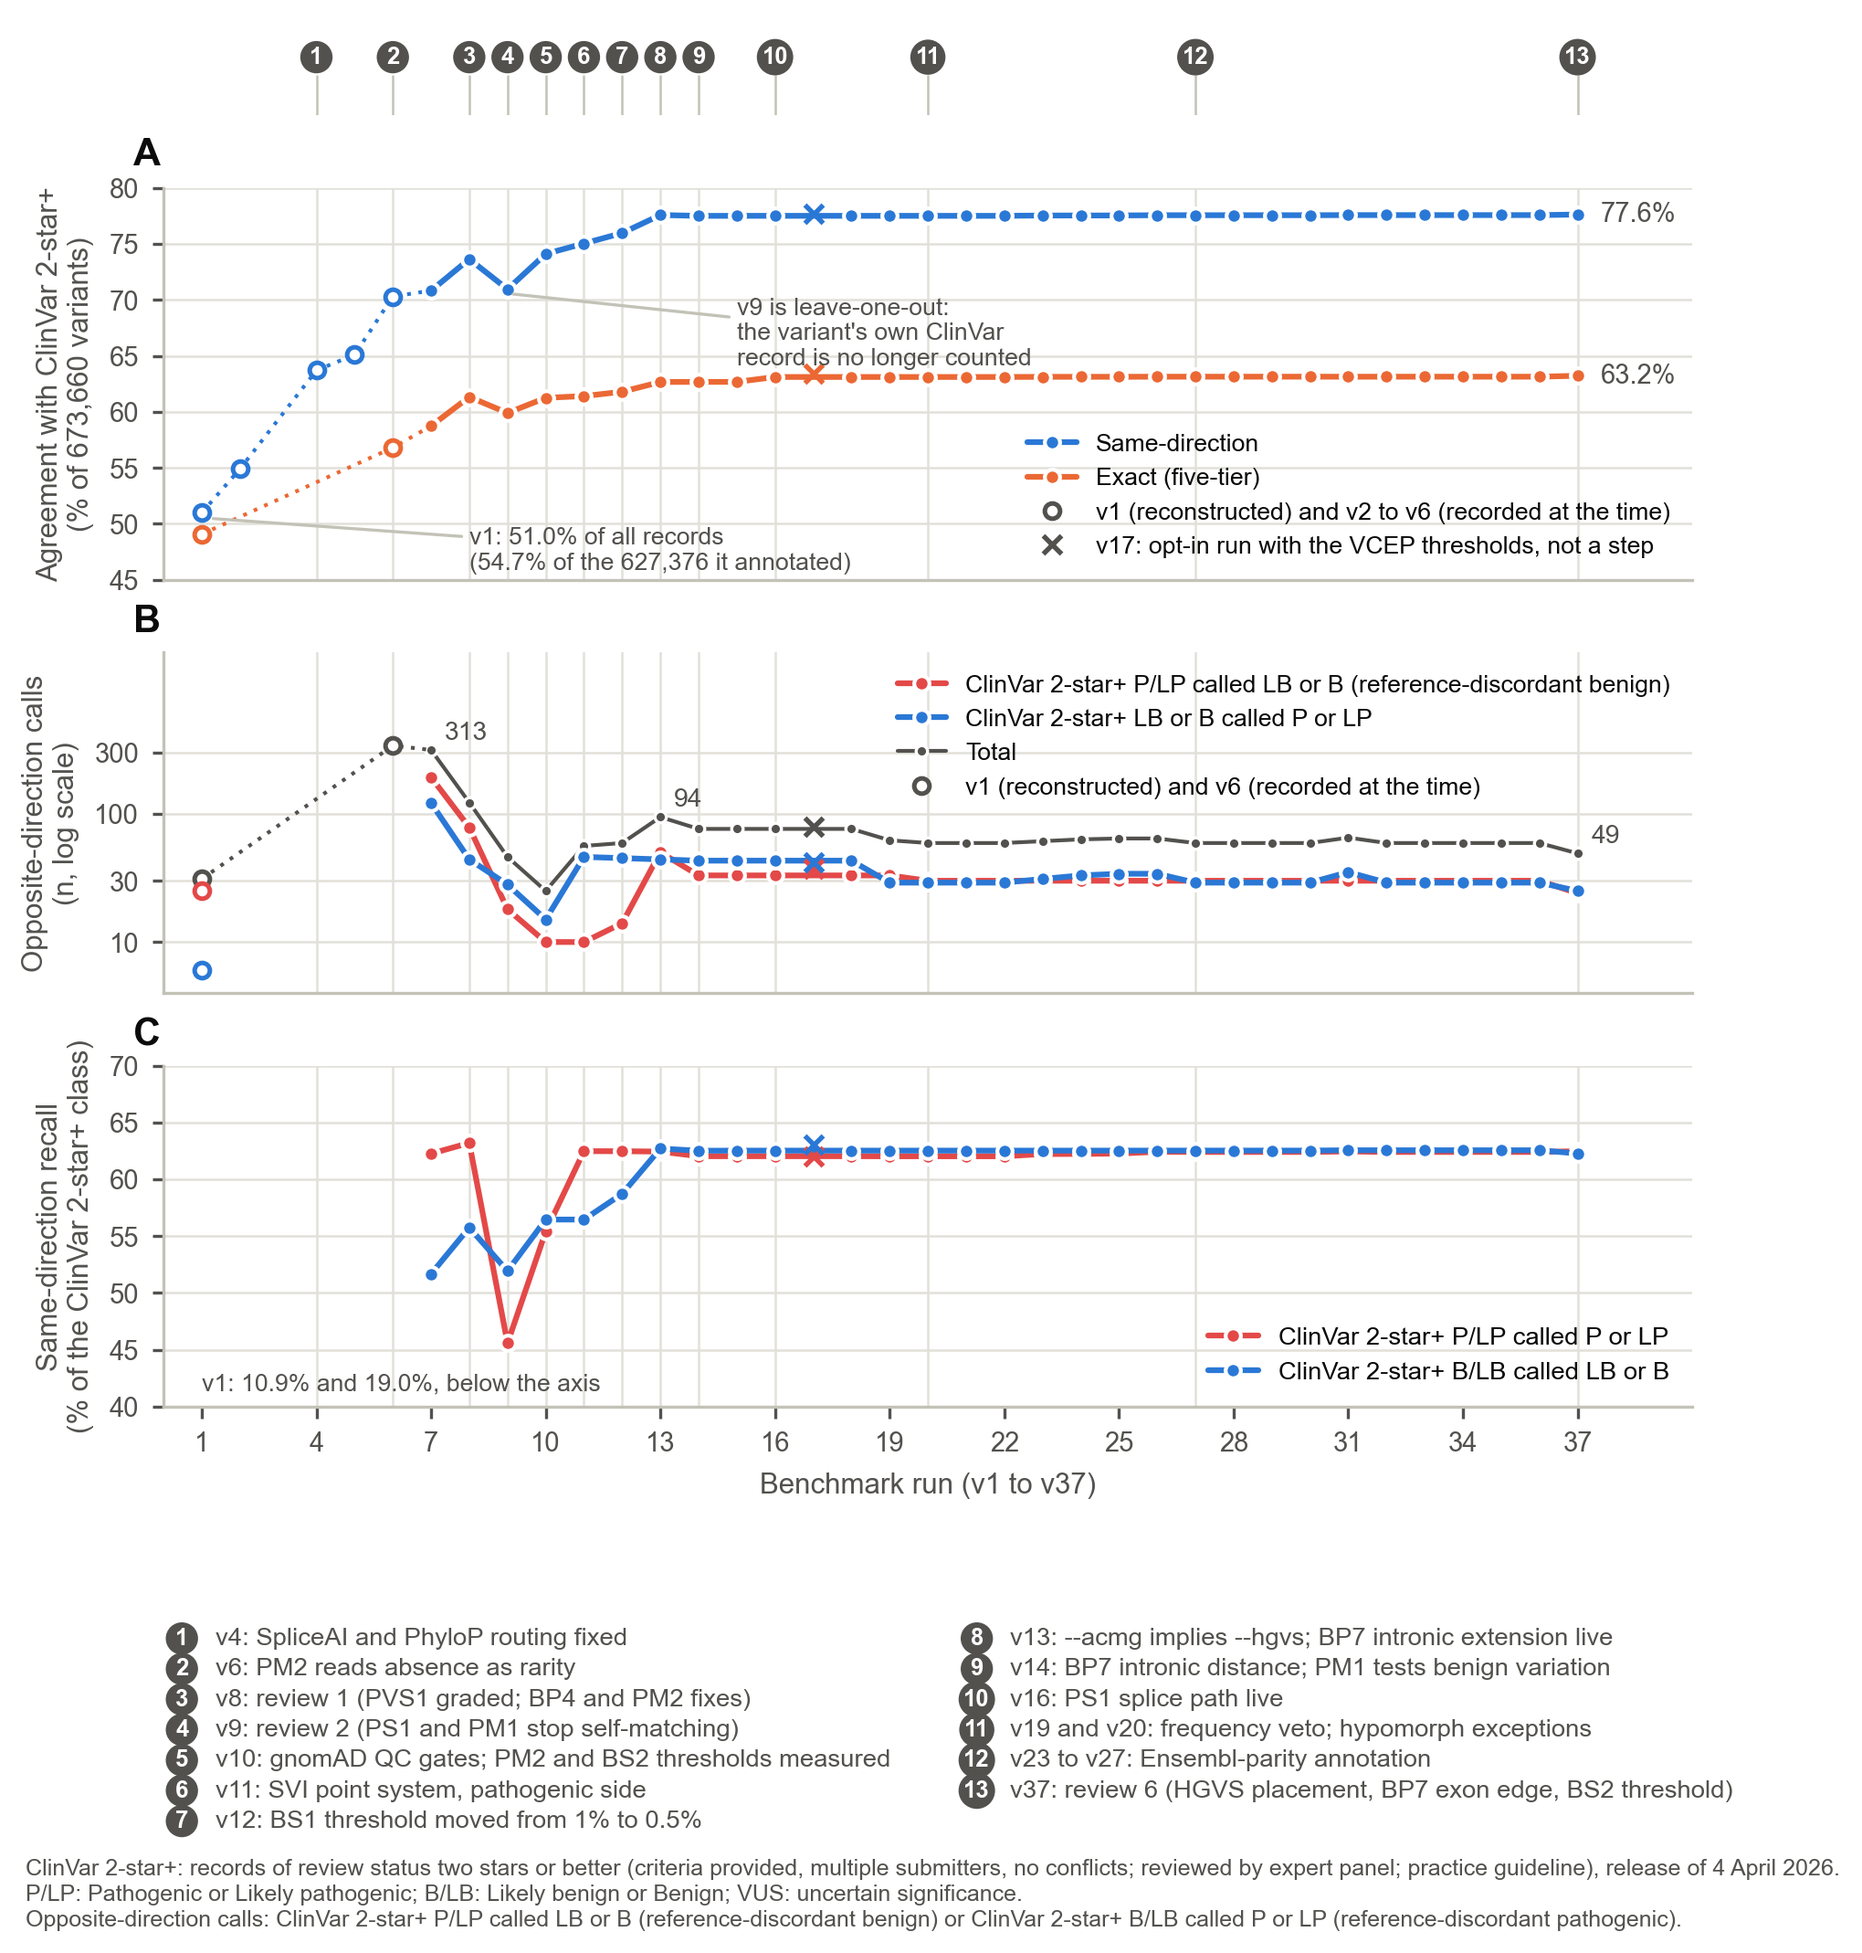
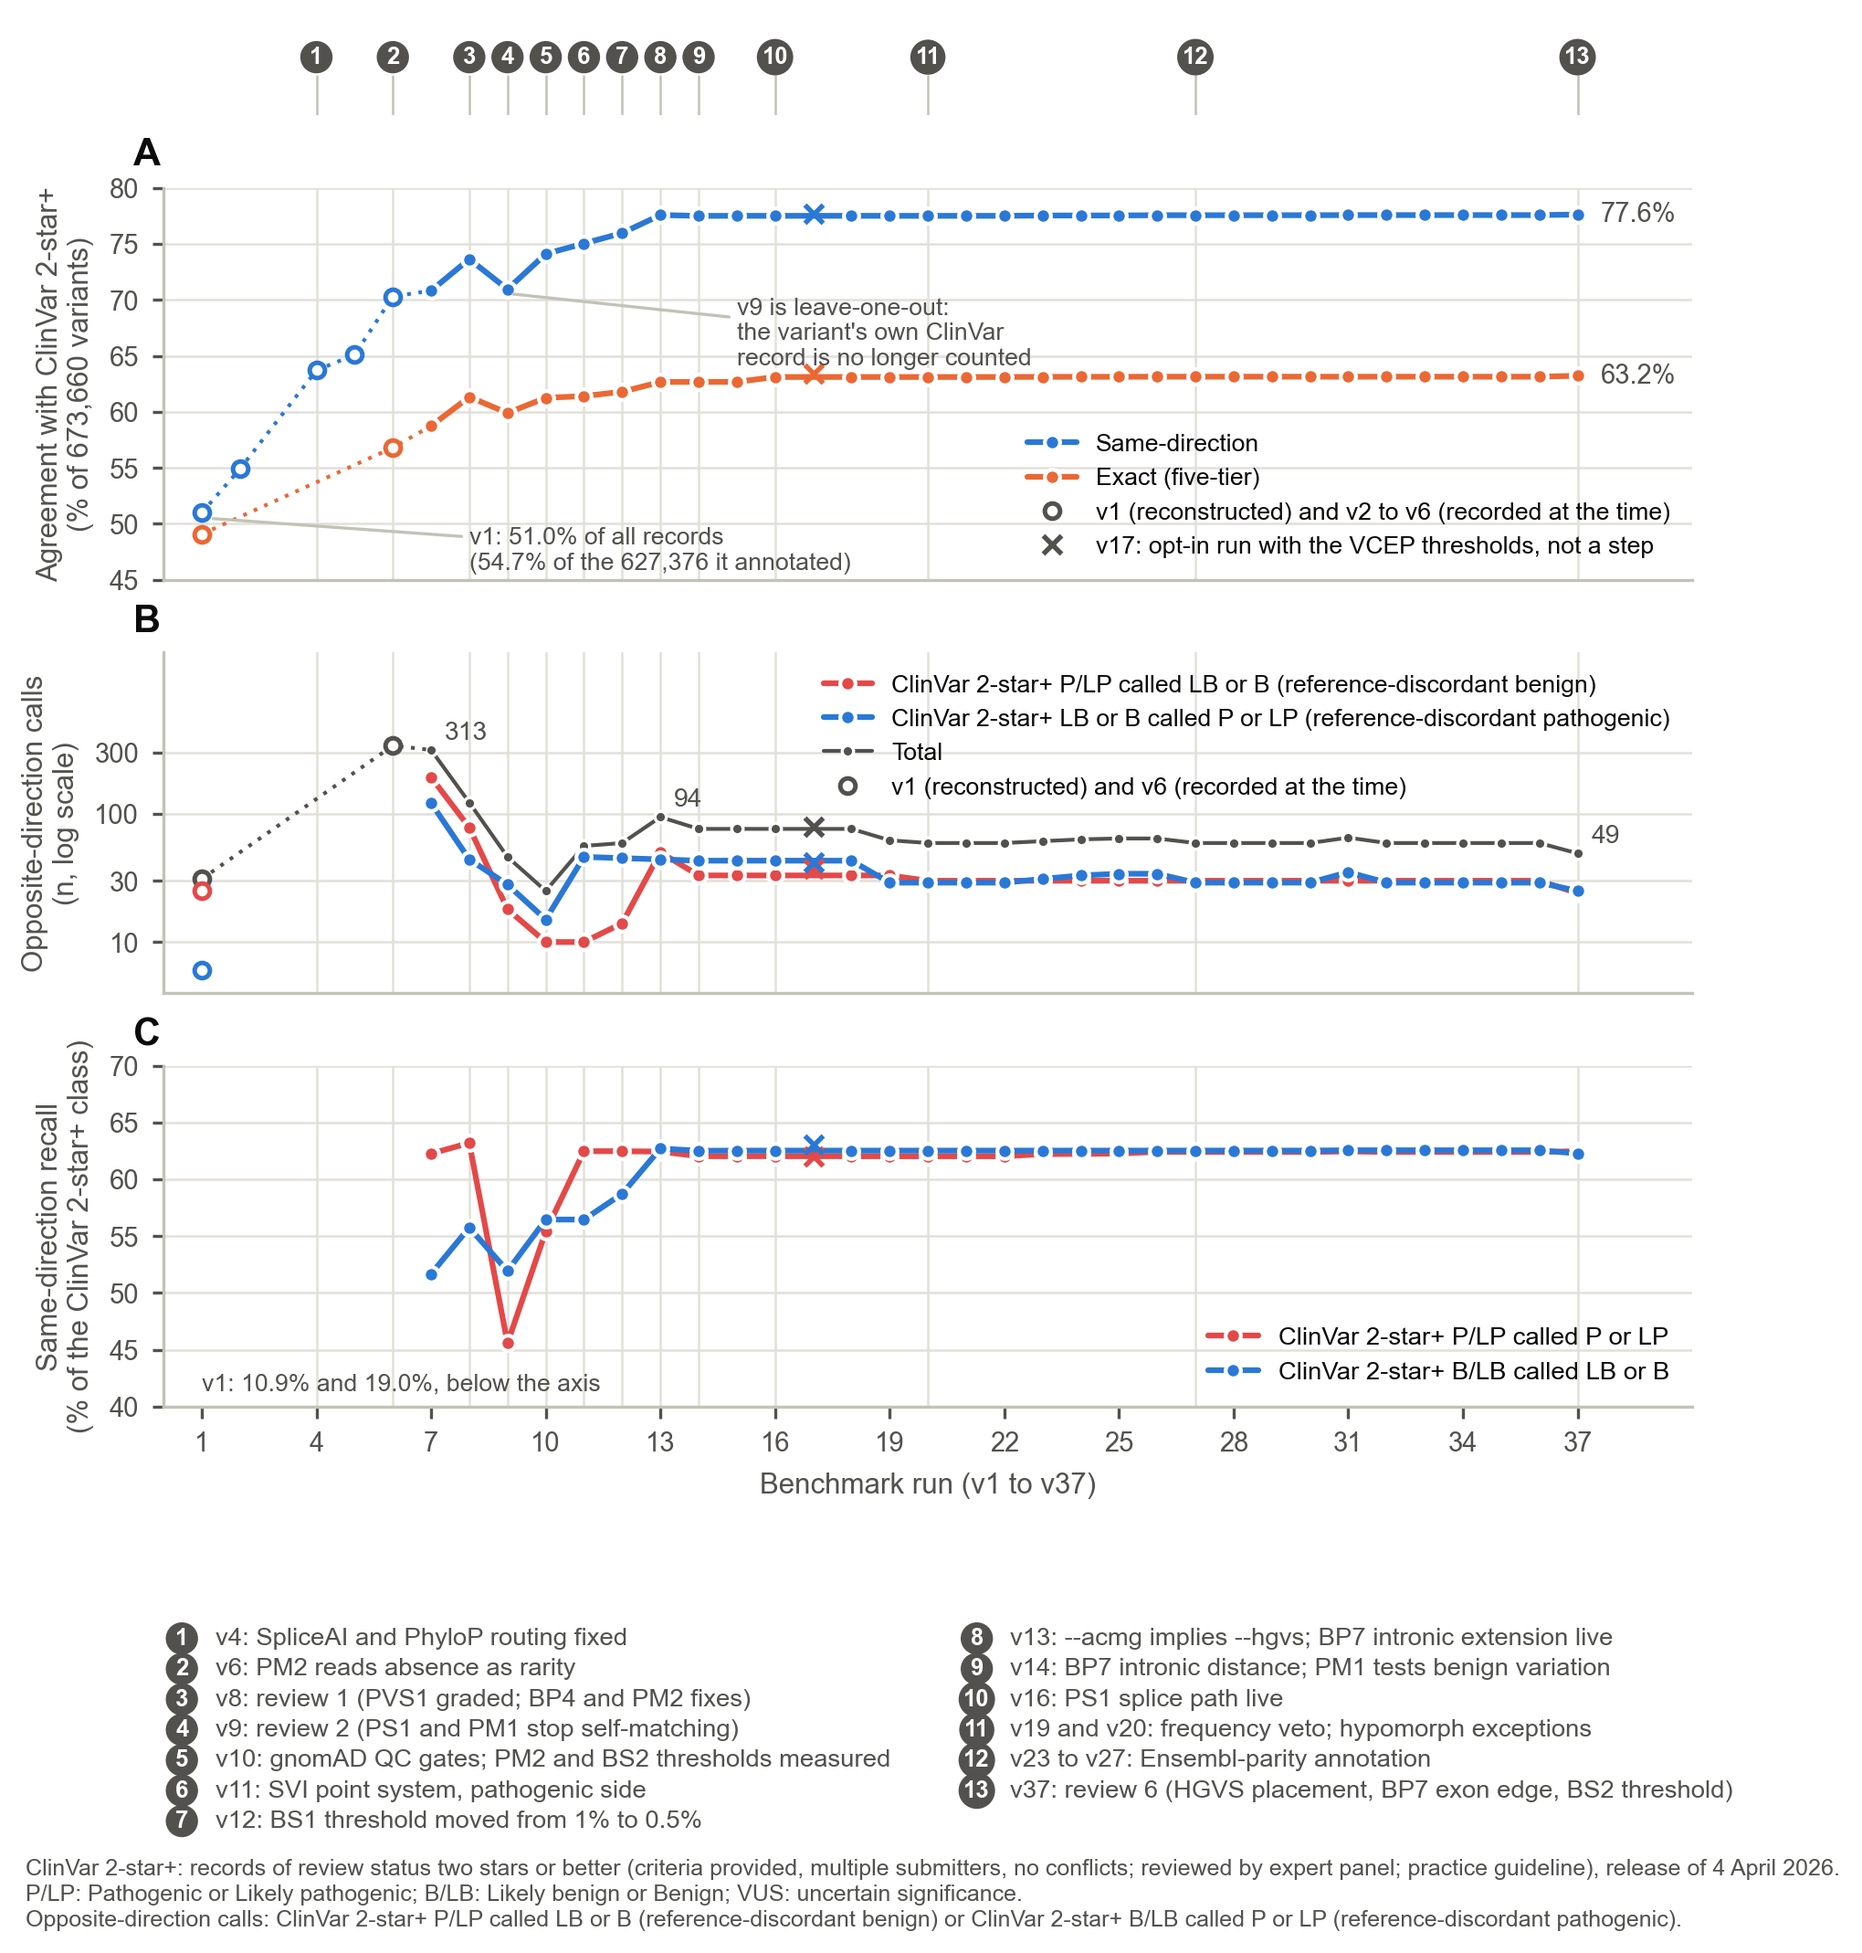
docs(acmg): name both opposite-direction series in the legend of Figure S1B, as the text does
The legend glossed the red series as reference-discordant benign and left the blue one bare, although the footnote and the text name both classes.
Regenerated with generate_figures.py S1: the only pixels that differ are inside the legend.

Changed region(s): [[0.4326, 0.3396, 0.896, 0.4322], [0.6179, 0.4013, 0.6797, 0.4322]]

diff --git a/manuscript/acmg/generate_figures.py b/manuscript/acmg/generate_figures.py
@@ -263,7 +263,7 @@ def figS1_trajectory() -> None:
     axB.plot(opp["order"], opp.false_benign, color=TIER3["P/LP"], lw=LW, marker="o", ms=MS - 1.5, mec=SURFACE, mew=1, zorder=3,
              label=f"{CV} P/LP called LB or B (reference-discordant benign)")
     axB.plot(opp["order"], opp.false_pathogenic, color=TIER3["B/LB"], lw=LW, marker="o", ms=MS - 1.5, mec=SURFACE, mew=1, zorder=3,
-             label=f"{CV} LB or B called P or LP")
+             label=f"{CV} LB or B called P or LP (reference-discordant pathogenic)")
     axB.plot(main["order"], main.opposite, color=INK2, lw=1.0, marker="o", ms=MS - 2.5, mec=SURFACE, mew=0.8, zorder=2, label="Total")
     dotted(axB, opened, "opposite", INK2)
     open_marks(axB, opened.dropna(subset=["opposite"]), "opposite", INK2, ms=MS - 1.5)
